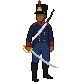
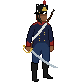
Give Cabral a trot for each direction he can head
Straight down, the three-quarter front, the three-quarter back and
straight up each have their own sheet now. The base poses were corrected
first so his head faces the way his body does, and frames that came back
without his sabre are given the blade of the frame beside them.

Changed region(s): [[0.439, 0.0, 0.5854, 0.2683]]

diff --git a/src/machi/data.ts b/src/machi/data.ts
@@ -241,15 +241,23 @@ export interface Kit {
 
 export const INTI: Kit = { sheets: SHEETS, turns: TURNS, pivots: STANDING_TURNS };
 
-// Cabral, the grenadier. So far only his trot seen from the front is drawn,
-// so every view shows it, mirrored to the side he is heading, and standing
-// still he holds one frame of it. There are no turns yet: he snaps round.
-// Unlike Inti's front view, his is drawn heading right.
-const CABRAL_TROT = { src: 'cabral/trote.png', frames: 8, faces: 1, skip: 0, ax: 47 } satisfies Sheet;
+// Cabral, the grenadier. So far he only trots: standing still he holds one
+// frame of it. His down-diagonal is not drawn apart from his front view, and
+// there are no turns yet: he snaps round.
+const cabralTrot = (file: string, faces: Sheet['faces'], ax: number): Sheet =>
+  ({ src: `cabral/trote_${file}.png`, frames: 8, faces, skip: 0, ax });
+const CABRAL_TROTS: Record<View, Sheet> = {
+  south: cabralTrot('sur', 0, 47),
+  // Unlike Inti's, his front views are drawn heading right.
+  down: cabralTrot('frente', 1, 47),
+  front: cabralTrot('frente', 1, 47),
+  back: cabralTrot('espalda', 1, 44),
+  north: cabralTrot('norte', 0, 44),
+};
 export const CABRAL: Kit = {
   sheets: Object.fromEntries(VIEW_ORDER.flatMap(view => [
-    [`idle_${view}`, { ...CABRAL_TROT, still: 0 }],
-    [`trot_${view}`, CABRAL_TROT],
+    [`idle_${view}`, { ...CABRAL_TROTS[view], still: 0 }],
+    [`trot_${view}`, CABRAL_TROTS[view]],
   ])),
   turns: {},
   pivots: {},

diff --git a/tools/build_cabral_sheet.py b/tools/build_cabral_sheet.py
@@ -1,14 +1,20 @@
 """Make one of Cabral's sheets ready for the game from SpriteCook's output.
 
-Three things are wrong with what comes back, every time:
-  - his head faces the opposite way to his body, so it is mirrored;
-  - animating him grows his plume to three times its height, so it is cut
-    back to the stub the design has;
-  - he is drawn the same height as Inti, hat and all, which leaves him the
-    smaller of the two. He is enlarged about the spot between his feet so he
-    stands taller than her, and stays anchored where he was.
+He is drawn the same height as Inti, hat and all, which leaves him the
+smaller of the two. Every sheet is enlarged about the spot between his feet
+so he stands taller than her, and stays anchored where he was.
 
-Usage: python3 tools/build_cabral_sheet.py assets/cabral/NAME.png
+More repairs can be asked for, for sheets that come back needing them:
+  --plume  animating him can grow his plume to three times its height; this
+           cuts it back to the stub the design has.
+  --head   the first design had his head facing the opposite way to his
+           body; this mirrors the head. Sheets animated from the corrected
+           poses in assets/cabral/ do not need it.
+
+  --blade=1>0,7>6   a frame can come back with his sabre missing; this
+           draws frame 1's blade into frame 0, and frame 7's into frame 6.
+
+Usage: python3 tools/build_cabral_sheet.py assets/cabral/NAME.png [--plume] [--head] [--blade=...]
        reads NAME_original.png beside it, writes NAME.png
 """
 import sys
@@ -16,29 +22,52 @@ from pathlib import Path
 
 from PIL import Image
 
-FRAME = 94
-AX, FEET = 47, 93   # the spot between his feet, in a frame
 SCALE = 1.15
 PLUME = 5           # rows of plume left above the shako
-HAIR = (16, 17, 17, 255)
 PEAK = 3            # how far the shako's peak can stick out past its body
+HAIR = (16, 17, 17, 255)
+
 
 def near(p, colour, by=26):
     return p[3] and all(abs(p[i] - colour[i]) <= by for i in range(3))
 
 
-def mirror_head(px):
+def red(p):
+    return p[3] and p[0] > 130 and p[1] < 70
+
+
+def trim_plume(frame):
+    """Clear all but the lowest rows of plume above the shako."""
+    px = frame.load()
+    w, h = frame.size
+    hat_top = min(y for y in range(h) for x in range(w) if px[x, y][3] and not red(px[x, y]))
+    for y in range(max(0, hat_top - PLUME)):
+        for x in range(w):
+            px[x, y] = (0, 0, 0, 0)
+
+
+def plume_height(frame):
+    """Rows of plume standing above the shako."""
+    px = frame.load()
+    w, h = frame.size
+    rows = [y for y in range(h) for x in range(w) if px[x, y][3]]
+    hat_top = min(y for y in range(h) for x in range(w) if px[x, y][3] and not red(px[x, y]))
+    return hat_top - min(rows)
+
+
+def mirror_head(frame):
     """Turn his head to face the way his body does.
 
-    The design has his chest turned to the right with the shako's peak and
-    his face turned to the left. His head, hat and all, is flipped about the
-    middle of the shako, leaving the musket behind it where it was.
+    His head, hat and all, is flipped about the middle of the shako, leaving
+    the musket behind it where it was.
     """
+    px = frame.load()
+    w, h = frame.size
     skin = lambda p: near(p, (140, 90, 61)) or near(p, (106, 64, 42))
     black = lambda p: near(p, (16, 17, 17), 14)
     plate = lambda p: near(p, (202, 167, 63))
     # His hands and buttons are those colours too, far lower down.
-    top_half = [(x, y) for y in range(FRAME // 2) for x in range(FRAME)]
+    top_half = [(x, y) for y in range(h // 2) for x in range(w)]
     chin = max(y for x, y in top_half if skin(px[x, y]))
     # The shako's body is the run of black on the row its plate sits on. The
     # head is a box that much wide plus the peak, from the top down to the chin.
@@ -56,12 +85,11 @@ def mirror_head(px):
         p = px[x, y]
         if y < face_top:
             # The shako: its body, its peak sticking out to one side, its plume.
-            plume = p[0] > 130 and p[1] < 70 and y < hat_top
-            return left - PEAK <= x <= right + PEAK and (black(p) or plate(p) or plume)
+            return left - PEAK <= x <= right + PEAK and (black(p) or plate(p) or (red(p) and y < hat_top))
         # The face: only as wide as the shako, so the musket beside it stays put.
         return left <= x <= right and (skin(p) or black(p))
 
-    head = [(x, y) for y in range(chin + 1) for x in range(FRAME) if part(x, y)]
+    head = [(x, y) for y in range(chin + 1) for x in range(w) if part(x, y)]
     was = {(x, y): px[x, y] for x, y in head}
     for x, y in head:
         # Under the shako, what the face leaves behind is the back of his head.
@@ -70,26 +98,70 @@ def mirror_head(px):
         px[left + right - x, y] = colour
 
 
-out = Path(sys.argv[1])
-src = Image.open(out.with_name(out.stem + "_original.png")).convert("RGBA")
-sheet = Image.new("RGBA", src.size)
-for i in range(src.width // FRAME):
-    frame = src.crop((i * FRAME, 0, (i + 1) * FRAME, FRAME))
+def blade(p):
+    return p[3] and p[0] > 150 and p[1] > 150 and abs(p[0] - p[2]) < 40
+
+
+def hilt(frame):
+    """Middle of the sabre's brass guard: the yellow by his hand, low down."""
     px = frame.load()
-    red = lambda p: p[0] > 130 and p[1] < 70
-    hat_top = min(y for y in range(FRAME) for x in range(FRAME) if px[x, y][3] and not red(px[x, y]))
-    for y in range(max(0, hat_top - PLUME)):
-        for x in range(FRAME):
-            px[x, y] = (0, 0, 0, 0)
-    mirror_head(px)
-    # Each pixel of the result takes the nearest pixel of the original.
-    big = Image.new("RGBA", (FRAME, FRAME))
+    w, h = frame.size
+    gold = [(x, y) for y in range(h // 2, h) for x in range(w) if near(px[x, y], (202, 167, 63), 40)]
+    return (sum(x for x, _ in gold) / len(gold), sum(y for _, y in gold) / len(gold))
+
+
+def lend_blade(donor, frame):
+    """Draw the donor frame's sabre blade into a frame that came back without one.
+
+    The blade is placed by the guard in his hand, which both frames have, and
+    only fills empty space, so it passes behind whatever is already drawn.
+    """
+    (dx, dy), (fx, fy) = hilt(donor), hilt(frame)
+    ox, oy = round(fx - dx), round(fy - dy)
+    src, dst = donor.load(), frame.load()
+    w, h = frame.size
+    for y in range(h):
+        for x in range(w):
+            # Below his hand: the white of his crossbelt is higher up.
+            if blade(src[x, y]) and y > dy - 2 and 0 <= x + ox < w and 0 <= y + oy < h:
+                if not dst[x + ox, y + oy][3]:
+                    dst[x + ox, y + oy] = src[x, y]
+
+
+def enlarge(frame):
+    """Scale him up about the spot between his feet, by nearest pixel."""
+    w, h = frame.size
+    px = frame.load()
+    ax, feet = w // 2, h - 1
+    big = Image.new("RGBA", (w, h))
     bp = big.load()
-    for y in range(FRAME):
-        for x in range(FRAME):
-            sx, sy = round(AX + (x - AX) / SCALE), round(FEET - (FEET - y) / SCALE)
-            if 0 <= sx < FRAME and 0 <= sy < FRAME:
+    for y in range(h):
+        for x in range(w):
+            sx, sy = round(ax + (x - ax) / SCALE), round(feet - (feet - y) / SCALE)
+            if 0 <= sx < w and 0 <= sy < h:
                 bp[x, y] = px[sx, sy]
-    sheet.paste(big, (i * FRAME, 0))
-sheet.save(out)
-print(f"{out}: {src.width // FRAME} frames, plume trimmed, enlarged x{SCALE}")
+    return big
+
+
+if __name__ == "__main__":
+    out = Path(sys.argv[1])
+    flags = set(sys.argv[2:])
+    src = Image.open(out.with_name(out.stem + "_original.png")).convert("RGBA")
+    size = src.height
+    sheet = Image.new("RGBA", src.size)
+    plumes = []
+    frames = [src.crop((i * size, 0, (i + 1) * size, size)) for i in range(src.width // size)]
+    for flag in flags:
+        if flag.startswith("--blade="):
+            for pair in flag.split("=")[1].split(","):
+                donor, to = (int(n) for n in pair.split(">"))
+                lend_blade(frames[donor], frames[to])
+    for i, frame in enumerate(frames):
+        plumes.append(plume_height(frame))
+        if "--plume" in flags:
+            trim_plume(frame)
+        if "--head" in flags:
+            mirror_head(frame)
+        sheet.paste(enlarge(frame), (i * size, 0))
+    sheet.save(out)
+    print(f"{out}: {src.width // size} frames of {size}, enlarged x{SCALE}; plume rows as drawn: {plumes}")
